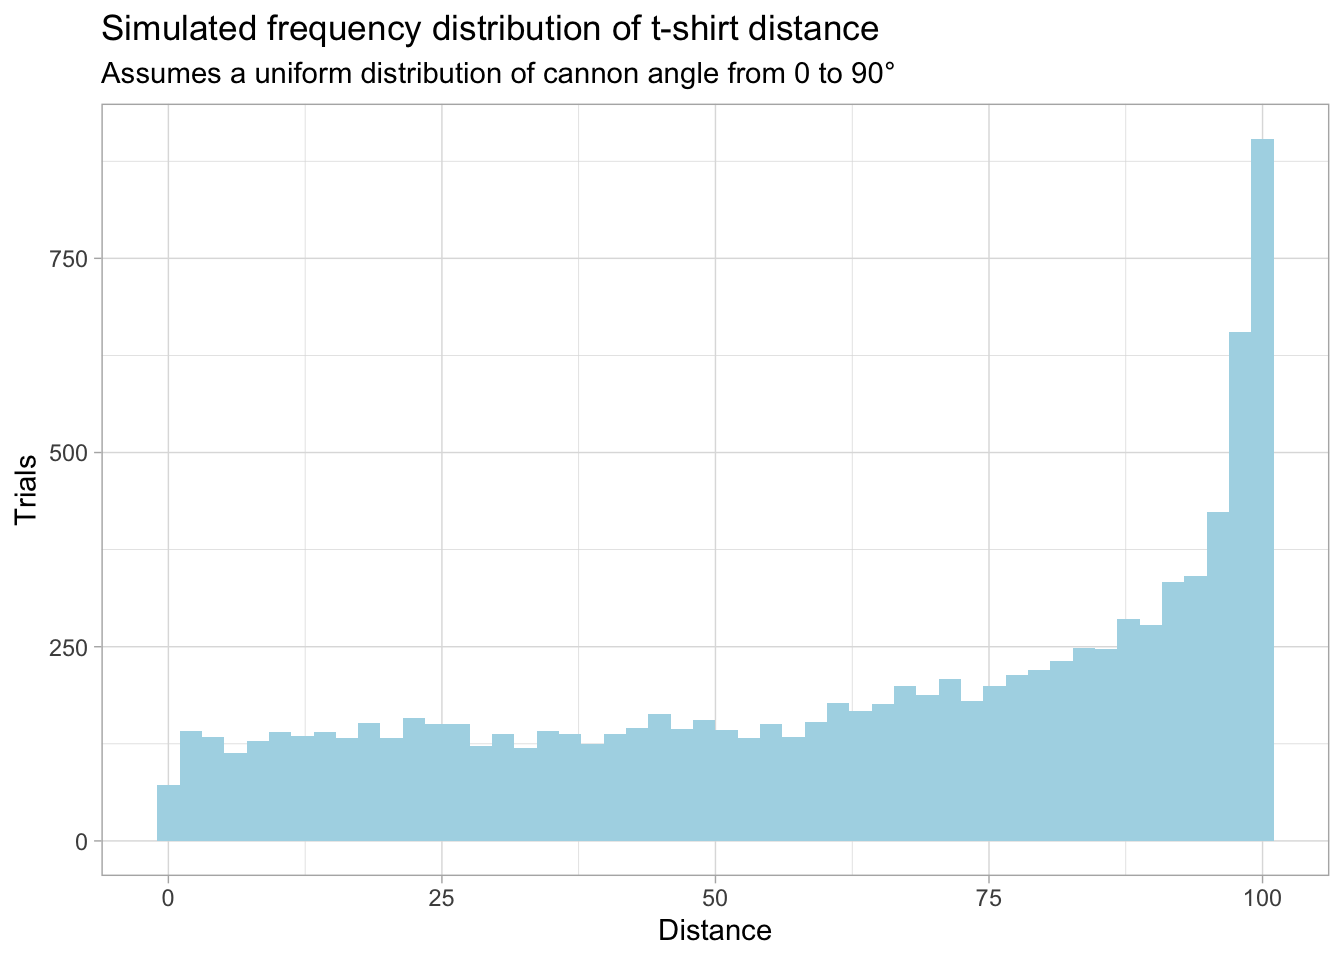
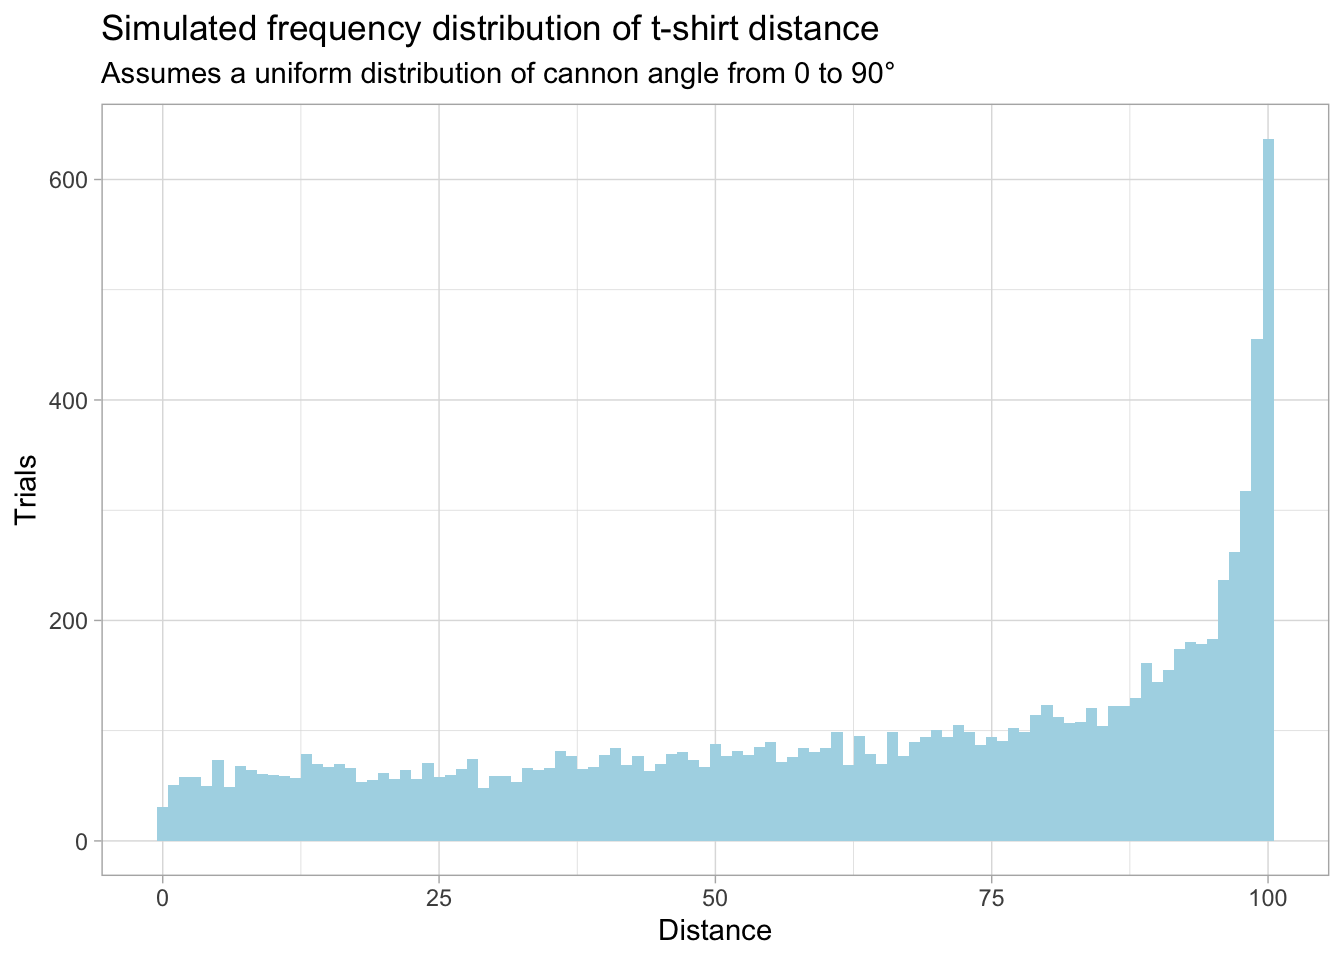
Interim addition

diff --git a/content/post/2020-04-10-riddler-express-where-should-you-sit-for-t-shirt-cannon.html b/content/post/2020-04-10-riddler-express-where-should-you-sit-for-t-shirt-cannon.html
@@ -38,7 +38,7 @@ The crew member aiming in your direction is still figuring out the angle for the
 <pre class="r"><code>tibble(theta = runif(n = 10000, min = 0, max = pi / 2)) %&gt;%
   mutate(distance = 100 * sin(2 * theta)) %&gt;%
   ggplot(aes(x = distance)) +
-  geom_histogram(bins=50, fill=&quot;lightblue&quot;) +
+  geom_histogram(binwidth=1, fill=&quot;lightblue&quot;) +
   theme_light() +
   labs(
     title = &quot;Simulated frequency distribution of t-shirt distance&quot;,
@@ -51,15 +51,19 @@ The crew member aiming in your direction is still figuring out the angle for the
 <div id="maths" class="section level4">
 <h4>Maths</h4>
 <p>The angle of the t-shirt cannon is a random uniform variable, <span class="math inline">\(\Theta\)</span>.
-It has a constant probability for each angle <span class="math inline">\(\theta\)</span> as follows:</p>
+We can represent the probability density function <span class="math inline">\(f_{\Theta}\)</span> and the
+cumulative distribution function <span class="math inline">\(F_{\Theta}\)</span> as:</p>
 <p><span class="math display">\[
 \begin{aligned}
-f_{\Theta}(\theta) = \frac{1}{\frac{\pi}{2}} = \frac{2}{\pi}
+f_{\Theta}(\theta) &amp; = \frac{1}{\frac{\pi}{2}} = \frac{2}{\pi} \\
+F_{\Theta}(\theta) &amp; = \int_0^{\theta} f_{\Theta}(u) \; du \\
+&amp; = \frac{2\theta}{\pi}
 \end{aligned}
 \]</span></p>
 <p>We’ll represent the distance the t-shirt travels as a random variable <span class="math inline">\(X\)</span>.
 But first, we need to establish the relationship of the distance as a
-function of the angle <span class="math inline">\(\theta\)</span>.</p>
+function of the angle <span class="math inline">\(\theta\)</span>. We’ll start on that path by looking at the
+height as a function of angle and time after launch:</p>
 <p><span class="math display">\[
 \begin{aligned}
 v(t) &amp; =  v_0 - gt \\
@@ -74,32 +78,96 @@ t-shirt travels are both random variables that are transformations of the
 angle <span class="math inline">\(\Theta\)</span>.</p>
 <p><span class="math display">\[
 \begin{aligned}
-0 &amp; = vT\sin(\Theta) - \frac{1}{2}gT^2 \\
-T &amp; = \frac{2v}{g}\sin(\Theta) \\
+0 &amp; = vT\sin{\Theta} - \frac{1}{2}gT^2 \\
+T &amp; = \frac{2v}{g}\sin{\Theta} \\
 \\
 X &amp; = v_X(\Theta) \cdot T \\
 &amp; = v \cos{\Theta} \cdot \frac{2v}{g}\sin{\Theta} \\
 &amp; = \left(\frac{v^2}{g}\right) \cdot 2 \sin{\Theta} \cos{\Theta} \\
 &amp; = \left(\frac{v^2}{g}\right) \sin{2\Theta} \\
-&amp; = h(\Theta) \\
 \end{aligned}
 \]</span></p>
 <p>How can we use the maximum distance <span class="math inline">\(x_{max} = 100\)</span>?</p>
 <p><span class="math display">\[
 \begin{aligned}
-x_{max} &amp; = \max_{0 \le \theta \le \frac{\pi}{2}} \left(\frac{v^2}{g}\right) \sin{2\theta} \\
+x_{\max} &amp; = \max_{0 \le \theta \le \frac{\pi}{2}} \left(\frac{v^2}{g}\right) \sin{2\theta} \\
 &amp; = \frac{v^2}{g}, &amp;\text{where } \theta = \frac{\pi}{4} \\
-100 &amp; = \frac{v^2}{g}
 \end{aligned}
 \]</span></p>
-<p>This gives us a convenient alternative expression for the distance <span class="math inline">\(X\)</span>.
-(We used this expression in our simulation code above):</p>
+<p>This gives us a convenient alternative transformation <span class="math inline">\(h\)</span> for the distance
+<span class="math inline">\(X\)</span> as a function of the angle <span class="math inline">\(\Theta\)</span>. (We used this expression in our
+simulation code above):</p>
 <p><span class="math display">\[ 
 \begin{aligned}
 X &amp; = \left(\frac{v^2}{g}\right) \sin{2\Theta} \\
-&amp; = 100 \sin{2\Theta} \\
+&amp; = x_{\max} \sin{2\Theta} \\
+&amp; = h(\Theta) \\
 \end{aligned}
 \]</span></p>
+<p>We’re going to need to invert the function <span class="math inline">\(h\)</span> to proceed, and that’s a
+problem, since it’s not invertible over the domain <span class="math inline">\([0, \frac{\pi}{2}]\)</span>.
+Instead, we’re going to look at a subset of that domain –
+<span class="math inline">\([0, \frac{\pi}{4}]\)</span> – where we can invert <span class="math inline">\(h\)</span>, and then use the
+symmetry in the problem to double up.</p>
+<p><span class="math display">\[
+\begin{aligned}
+X &amp; = h(\Theta), &amp;&amp; 0 \le \Theta \le \frac{\pi}{4} \\
+&amp; = x_{\max}\sin{2\Theta} \\
+\\
+\Theta &amp; = h^{-1}(X) \\
+&amp; = \frac{1}{2}\arcsin{\left(\frac{X}{x_{\max}}\right)}
+\end{aligned}
+\]</span></p>
+<p>Now, we can return to our cumulative distribution function
+<span class="math inline">\(F_{\Theta}(\theta)\)</span>. But we’re making a slight modification, to account
+for our more limited domain. Then, we can develop a corresponding cdf for
+<span class="math inline">\(F_X(x)\)</span>:</p>
+<p><span class="math display">\[
+\begin{aligned}
+F_{\Theta}(\theta) &amp; = \frac{4\theta}{\pi}, &amp;&amp; 0 \le \Theta \le \frac{\pi}{4} \\
+F_X(x) &amp; = \Pr(X \le x) \\
+&amp; = \Pr(\Theta \le h^{-1}(x)) \\
+&amp; = F_{\Theta}(h^{-1}(x)) \\
+&amp; = F_{\Theta}\left(\frac{1}{2}\arcsin{\left(\frac{x}{x_{\max}}\right)}\right) \\
+&amp; = \left(\frac{4}{\pi}\right)\left(\frac{1}{2}\arcsin{\left(\frac{x}{x_{\max}}\right)}\right) \\
+&amp; = \left(\frac{2}{\pi}\right)\arcsin{\left(\frac{x}{x_{\max}}\right)} \\
+\end{aligned}
+\]</span></p>
+<p>We can use this cdf to discretize to a probability mass function for the
+probability of the t-shirt arriving in row <span class="math inline">\(R\)</span>. In general, this looks like:</p>
+<p><span class="math display">\[
+\begin{aligned}
+p_R(r) = \begin{cases}
+  F_X(1.5) &amp;&amp; r = 1 \\
+  F_X(r + 0.5) - F_X(r - 0.5) &amp;&amp; 1 &lt; r &lt; 100 \\
+  F_X(100) - F_X(99.5) &amp;&amp; r = 100 \\
+  \end{cases}
+\end{aligned}
+\]</span></p>
+<pre class="r"><code>cdf_x &lt;- function(x) {
+  x_max &lt;- 100
+  return(2 / pi * asin(x / x_max))
+}
+pmf_r &lt;- function(r) {
+  ifelse(r == 1, cdf_x(1.5), 
+         ifelse(r == 100, cdf_x(100) - cdf_x(99.5), 
+                cdf_x(r + 0.5) - cdf_x(r - 0.5)))
+}
+est_probs &lt;- tibble(r = seq(1, 100)) %&gt;%
+  mutate(prob = map_dbl(r, pmf_r))
+est_probs %&gt;%
+  ggplot(aes(x = r, y = prob)) + 
+  geom_point(col = &quot;lightblue&quot;) +
+  theme_light() +
+  scale_y_continuous(labels = scales::percent_format(accuracy = 1), 
+                     breaks = seq(0, .06, .01),
+                     minor_breaks = seq(0, .06, .01)) +
+  labs(
+    title = &quot;Estimated probabilities at each row&quot;,
+    y = &quot;Probabilities&quot;,
+    x = &quot;Row&quot;
+  )</code></pre>
+<p><img src="/post/2020-04-10-riddler-express-where-should-you-sit-for-t-shirt-cannon_files/figure-html/pmf-1.png" width="672" /></p>
 <p>Now, we have <span class="math inline">\(X\)</span> as a functional transformation of <span class="math inline">\(\Theta\)</span>. We’re going to
 try to develop a density function <span class="math inline">\(f_X(x)\)</span> using the density function we
 already have <span class="math inline">\(f_{\Theta}(\theta)\)</span> using this formulation,
@@ -111,21 +179,33 @@ f_X(x) &amp; = f_{\Theta}(h^{-1}(x)) \cdot \left| \frac{d}{dx}h^{-1}(x) \right| 
 \]</span></p>
 <p>We’ll need the inverse of the transformation <span class="math inline">\(X = h(\Theta)\)</span>. This presents
 a bit of a bind, since the <span class="math inline">\(\sin\)</span> function doesn’t have a straightforward
-inverse without piecewise limiting the domain. And we’ll find that our formula
-has an undefined cusp.</p>
+inverse without piecewise limiting the domain. We’ll consider <span class="math inline">\(\Theta\)</span> on two
+symmetric domains – <span class="math inline">\([0, \frac{\pi}{4}]\)</span> and <span class="math inline">\([\frac{\pi}{4}, \frac{\pi}{2}]\)</span> –
+where we can consider an inverse function <span class="math inline">\(h^{-1}\)</span>.</p>
 <p><span class="math display">\[
 \begin{aligned}
-h^{-1}(X) &amp; = \Theta \\
-&amp; = \frac{1}{2}\arcsin(\frac{g}{v^2}X) \\
-\\
+\Theta &amp; = h^{-1}(X)  \\
+h^{-1}(X) &amp; = \begin{cases}
+  \frac{1}{2}\arcsin(\frac{g}{v^2}X), &amp;&amp; 0 \le x \le \frac{\pi}{4} \\
+  \frac{1}{2}\arcsin(\frac{g}{v^2}X), &amp;&amp; \frac{\pi}{4} \le x \le \frac{\pi}{2} \\
+  \end{cases}
+\end{aligned}
+\]</span></p>
+<p>And we’ll find that our formula for the derivative has an undefined cusp.
+We’ll deal with that a bit later.
+<span class="math display">\[
+\begin{aligned}
 \frac{d}{dx}h^{-1}(x) &amp; = \frac{g}{2v^2} \sqrt{\frac{1}{1 - (\frac{gx}{v^2})^2}} \\
 \end{aligned}
 \]</span></p>
+<p>Because of the symmetry in the two domains of <span class="math inline">\(\Theta\)</span> for the inverse
+function <span class="math inline">\(h^{-1}\)</span>, we can simply double the probability density function
+for <span class="math inline">\(f_X(x)\)</span>.</p>
 <p><span class="math display">\[
 \begin{aligned}
 f_X(x) &amp; = f_{\Theta}(h^{-1}(x)) \cdot \left| \frac{d}{dx}h^{-1}(x) \right| \\
-&amp; = \frac{2}{\pi} \cdot \left| \frac{d}{dx}h^{-1}(x) \right| \\
-&amp; = \frac{2}{\pi} \cdot \left| \frac{g}{2v^2} \sqrt{\frac{1}{1 - (\frac{gx}{v^2})^2}} \right| \\
+&amp; = 2 \cdot \frac{2}{\pi} \cdot \left| \frac{d}{dx}h^{-1}(x) \right| \\
+&amp; = \frac{4}{\pi} \cdot \left( \frac{g}{2v^2} \sqrt{\frac{1}{1 - (\frac{gx}{v^2})^2}} \right) \\
 \end{aligned}
 \]</span>
 The density function <span class="math inline">\(f_X(x)\)</span> is maximized when <span class="math inline">\(x\)</span> approaches <span class="math inline">\(\frac{v^2}{g}\)</span>, or when <span class="math inline">\(x\)</span> approaches 100.</p>
